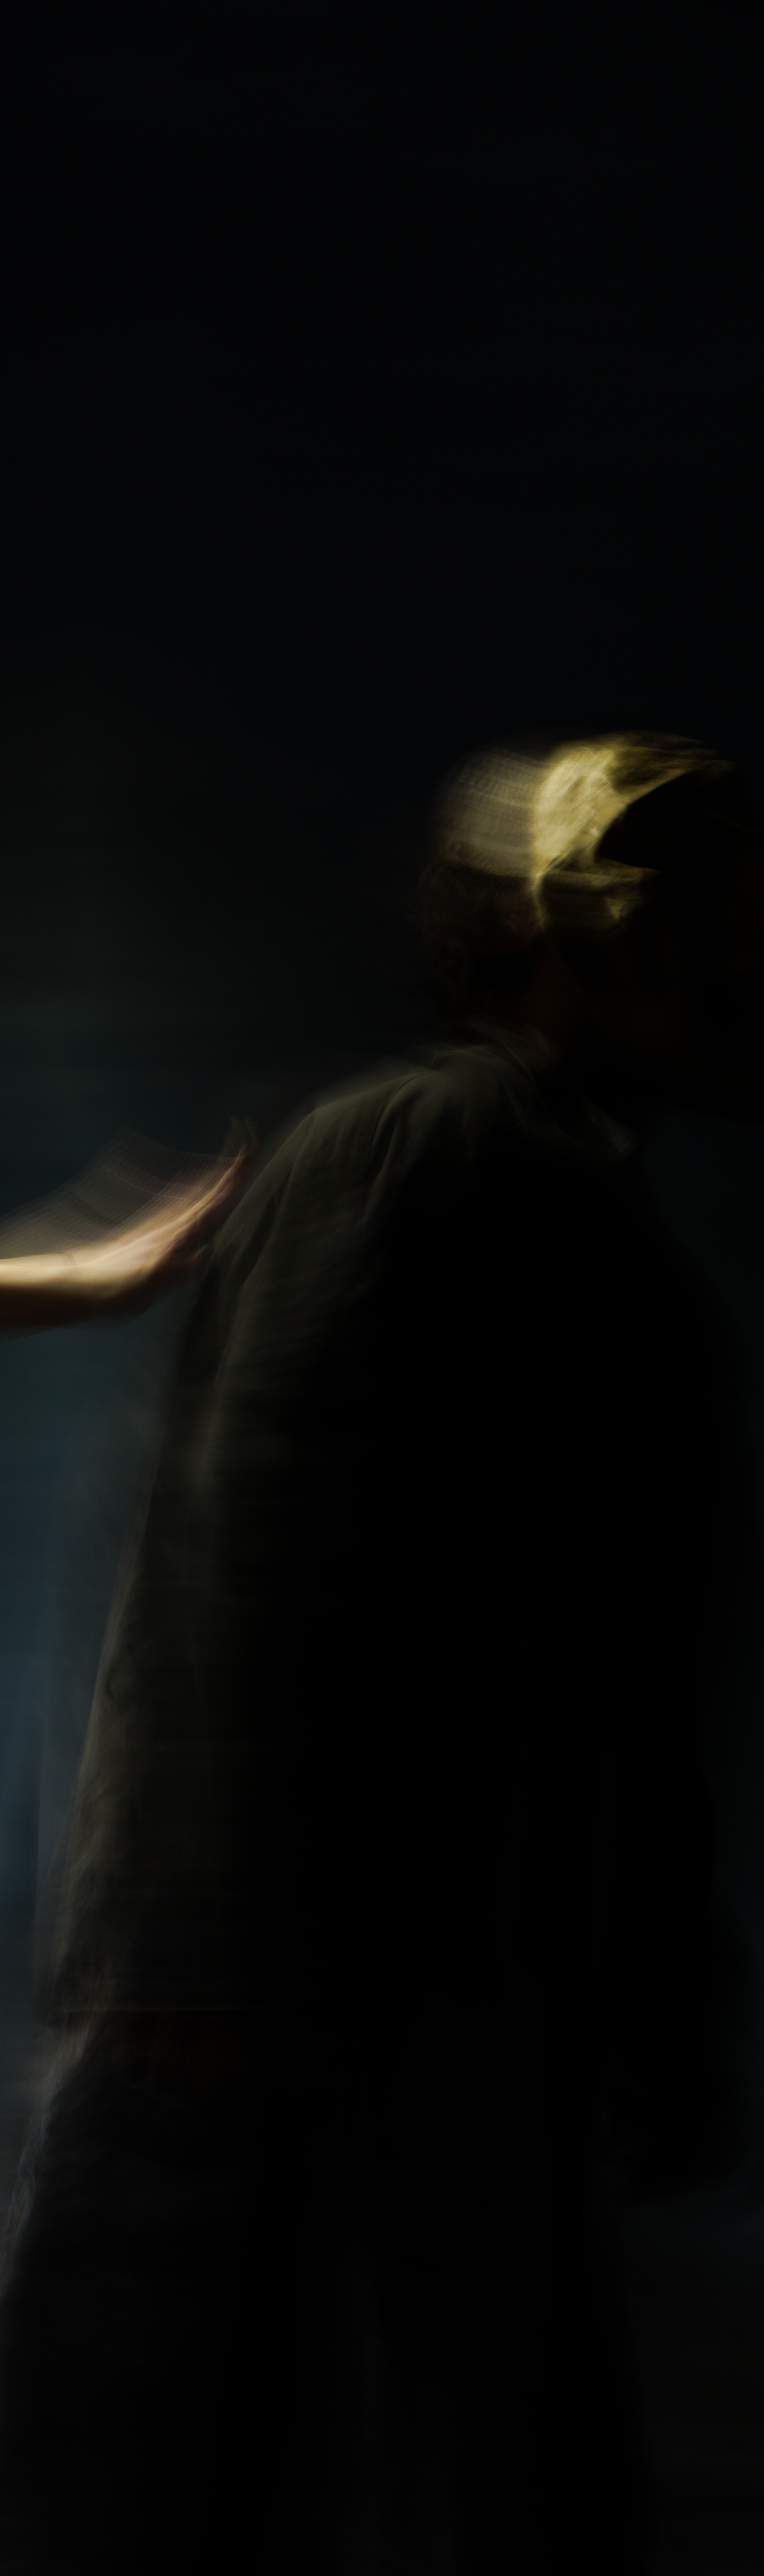
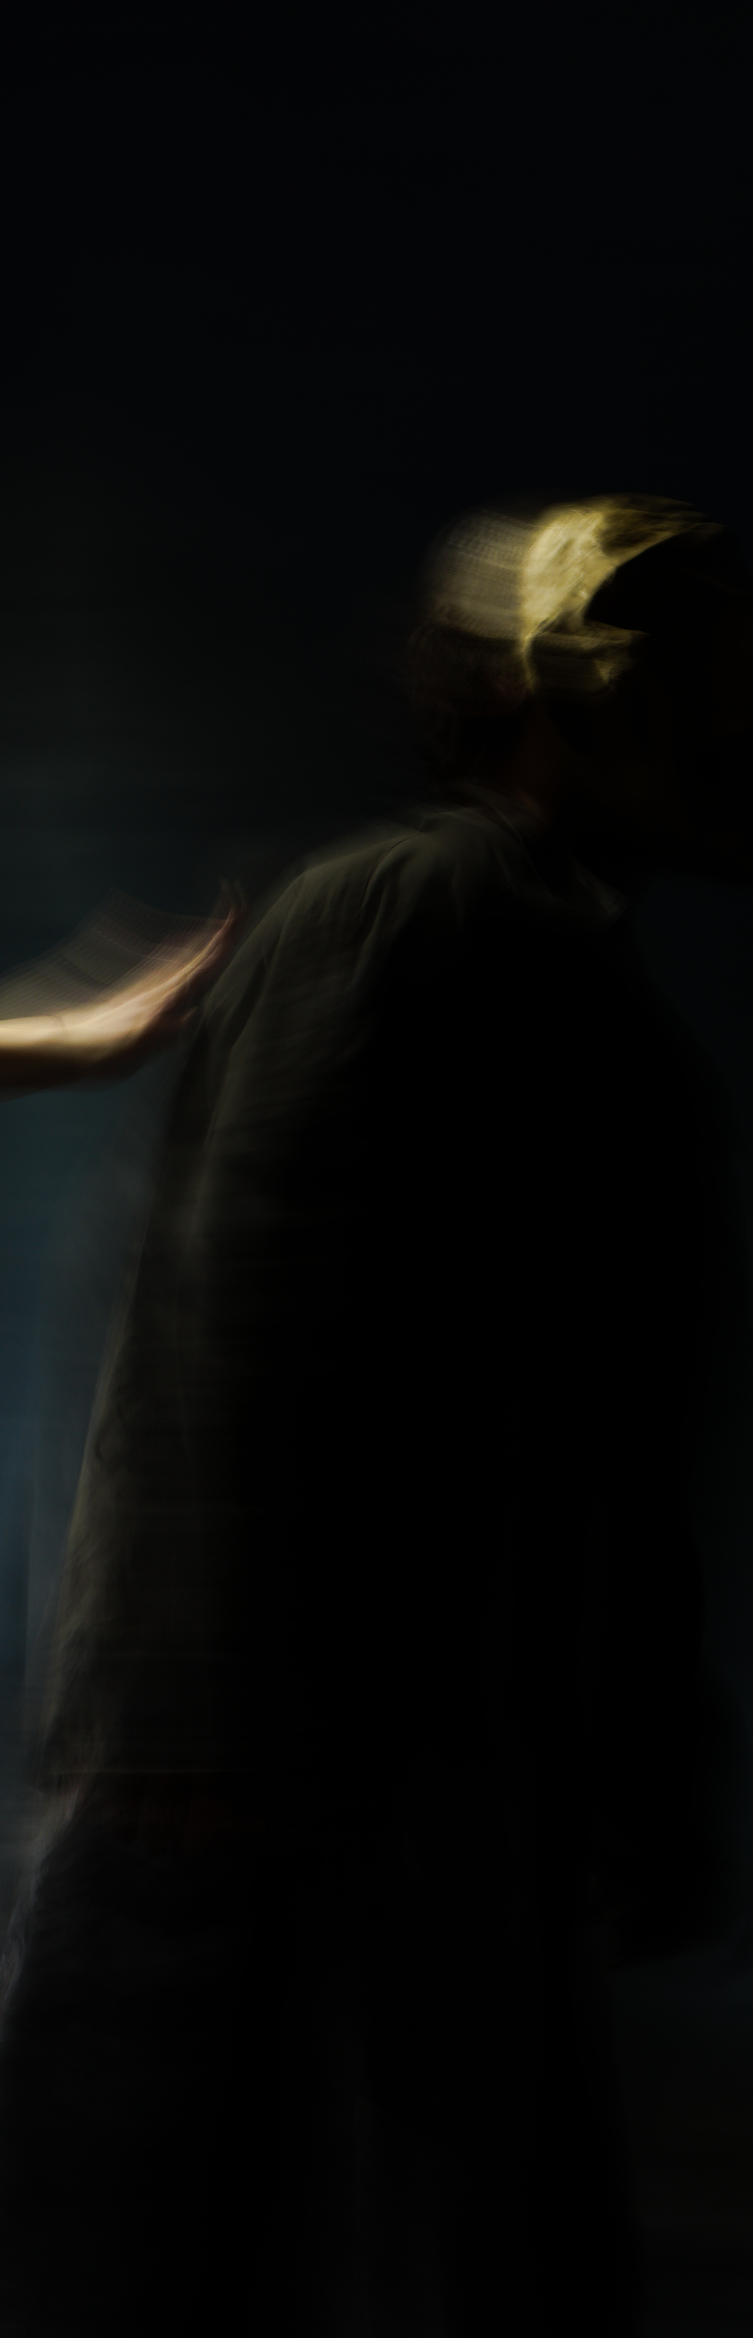
comming soon/ simple website for a play

diff --git a/index.html b/index.html
@@ -15,39 +15,39 @@
     <link rel="preconnect" href="https://fonts.gstatic.com">
     <link rel="preconnect" href="https://fonts.gstatic.com">
     <link rel="preconnect" href="https://fonts.gstatic.com">
-<link href="https://fonts.googleapis.com/css2?family=Special+Elite&display=swap" rel="stylesheet"> 
+    <link href="https://fonts.googleapis.com/css2?family=Special+Elite&display=swap" rel="stylesheet">
     <link
         href="https://fonts.googleapis.com/css2?family=Montserrat:ital,wght@0,100;0,200;0,300;0,400;0,500;0,600;0,700;0,800;0,900;1,100;1,200;1,300;1,400;1,500;1,600;1,700;1,800;1,900&display=swap"
         rel="stylesheet">
-    <link rel="icon" href="exitbetweenthedays-site/assets/img/maskicon.jpg "/>
+    <link rel="icon" href="assets/img/maskicon.jpg" />
     <title>Exit Between the Days</title>
 </head>
 
 <body>
-    <div class="container-fluid hero-image row">
-        <div class="container-fluid col-12 ">
-            <h1 class="heading-main text">Exit Between the Days</h1>
+    <div class="box">
+        <div class="container-fluid hero-image row">
+            <div class="container-fluid col-12 ">
+                <h1 class="heading-main text">Exit Between the Days</h1>
+            </div>
         </div>
-    </div>
-    <div class="container-fluid row box">
-        <div class="col-2 col-xs-1"></div>
-        <div class="col-8 col-xs-10 text">
-            <p>Developed as part of two artist residencies during 2019 and 2020</p>
-               <p>'Exit Between the Days' is a short duration Mask theatre piece using a minimalistic soundtrack, movement
-                cycles.</p>
-               <p> This piece deals with the sensations of wanting connection and the rituals of the quotidian.</p> 
-              <p> Touching on the themes of aloneness, migration and elderly in society.</p>
+        <div class="container-fluid row">
+            <div class="col-12 text">
+                <p>Developed as part of two artist residencies during 2019 and 2020.</p>
+                <p>'Exit Between the Days' is a short duration Mask theatre piece using a minimalistic soundtrack,
+                    movement
+                    cycles.</p>
+                <p> This piece deals with the sensations of wanting connection and the rituals of the quotidian. 
+                    Touching on the themes of aloneness, migration and elderly in society.</p>
+            </div>
         </div>
-        <div class="col-2 col-xs-1"></div>
-    </div>
-    <div class="container-fluid row ">
-        <div class="col-12 col-xs-12">
-            <h3 class="heading-support text">Developed with support from</h3>
+        <div class="container-fluid row ">
+            <div class="col-12">
+                <h3 class="heading-support text">Developed with support from -</h3>
+            </div>
         </div>
-    </div>
-    <footer>
-        <div class="container-fluid ">
-            
+        <footer class="">
+            <div class="container-fluid">
+
                 <div class="logo row">
                     <div class="col-3 col-xs-1"></div>
                     <img src="assets/img/blueraincoatlogoblack1.jpg" class="logo-1 col-6 col-xs-10 ">
@@ -56,21 +56,26 @@
                 <div class="logo row">
                     <div class="col-3 col-xs-1"></div>
                     <img src="assets/img/druid-logo.png" class="logo-2 col-6 col-xs-10">
-                    <div class="col-3 col-xs-1"></div> 
+                    <div class="col-3 col-xs-1"></div>
                 </div>
                 <div class="logo row">
                     <div class="col-3 col-xs-1"></div>
-                      <img src="assets/img/arts-theatre-logo.png" class="logo-3 col-6 col-xs-10">
-                      <div class="col-3 col-xs-1"></div>
+                    <img src="assets/img/arts-theatre-logo.png" class="logo-3 col-6 col-xs-10">
+                    <div class="col-3 col-xs-1"></div>
                 </div>
-                
-            
+
+
+            </div>
+
+        </footer>
+        <div class="copyright row">
+            <div class="col-12 copyright-paragraph">
+                <p>Photo credit - Diarmuid O'Flaherty 2019</p>
+                <p>&copy; 2020 Barry Cullen - Exit between the days</p>
+            </div>
         </div>
-    
-    </footer>
 
-
-
+    </div>
 </body>
 <script src="https://cdn.jsdelivr.net/gh/google/code-prettify@master/loader/run_prettify.js"></script>
 

diff --git a/assets/css/style.css b/assets/css/style.css
@@ -16,19 +16,34 @@ height: 100%;
 }
 .heading-main{
     font-size: 70px;
-    margin: 240px 0px 550px 0px ;
+    margin: 240px 0px 550px 50px ;
 }
+
 p{
-    font-size: 35px;
-    line-height: 5rem;
-    margin: 70px 0px 50px 0px ;
+      font-size: 35px;
+    line-height: 4rem;
 }
+.col-12.copyright-paragraph p{
+     font-size: 20px;
+    font-style: bold;
+    padding-bottom: 40px;
+    text-align: center;
+    color: blanchedalmond;
+}
+
+.copyright-paragraph{
+    padding: 60px 0px 40px 0px ;
+}
+
 .heading{
     font-size: 50px;
     margin: 50px 0px 70px 0px
 }
 .heading-support{
-    font-size: 70px;
+    margin-top: 50px;
+    padding-bottom: 70px;
+    padding-top: 50px;
+    font-size: 45px;
 }
 
 .row.box{
@@ -37,11 +52,11 @@ p{
 }
 
 .box{
-    background-color: rgba(0, 0, 0, 0.5);
+    background-color: rgba(0, 0, 0, 0.4);
 }
 
 body, html{
-background-image: url('assets/img/handonshoulder-desktop.jpg');
+background-image: url(../img/handonshoulder-desktop2.jpg);
   background-position: unset;
     background-repeat: no-repeat;
     background-size: cover;
@@ -49,11 +64,9 @@ background-image: url('assets/img/handonshoulder-desktop.jpg');
     
 }
 
-
-
 .logo.row{
     
-    margin: 55px 35px 15px 35px;
+    padding: 55px 35px 15px 35px;
 }
 .col-6 {
 	flex: unset;
@@ -66,18 +79,22 @@ footer{
     margin-bottom: 80px;
 }
 
-@media only screen and (max-width: 768px) {
+@media (max-width: 768px) {
   [class*="col-"] {
     width: 100%;
   }
 
+  .col-12.copyright-paragraph p{
+     font-size: 14px;
+    font-style: bold;
+    padding-bottom: 40px;
+    text-align: center;
+    color: blanchedalmond;
+}
 
-body, html{
-background-image: url(exitbetweenthedays-site/assets/img/handonshoulder-mobile.jpg);
-  background-position: unset;
-    background-repeat: no-repeat;
-    background-size: cover;
-    position: relative;
+body{
+background-image: url(../img/handonshoulder-mobile.jpg);
+  
     
 }
 
@@ -94,13 +111,16 @@ footer .row.box{
     margin: 110px 0px 150px 0px ;
 }
 p{
-    font-size: 20px;
+    font-size: 18px;
     line-height: 2.5rem;
     margin: 50px 0px 30px 0px ;
 }
 .heading-support{
+    
+    padding-bottom: 70px;
+    padding-top: 50px;
     font-size: 30px;
-    margin: 50px 0px 70px 0px
+
 }
 .container-fluid {
 	width: 100%;
